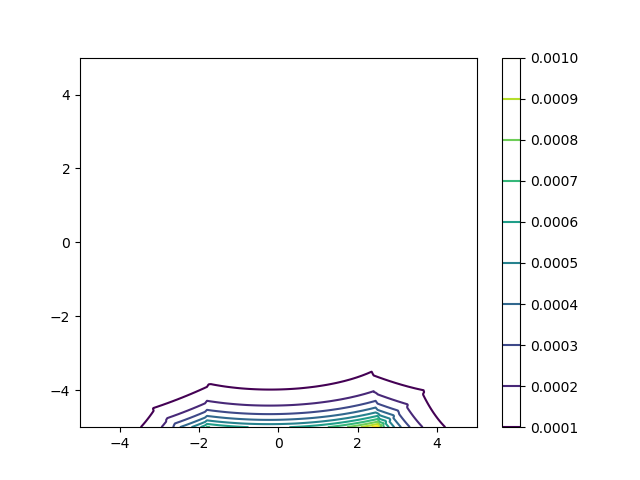
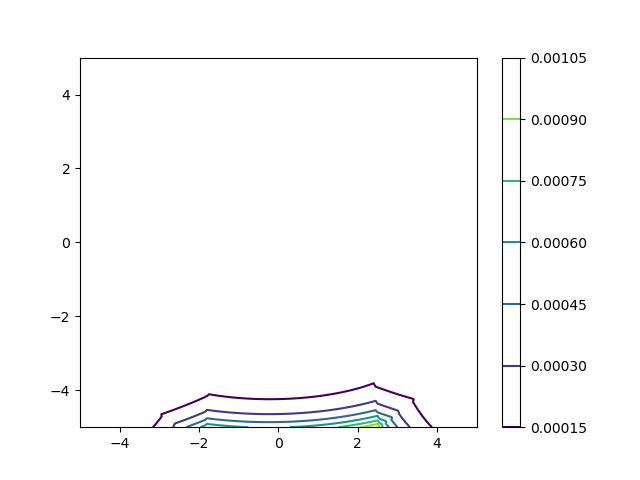
corrected contour lines

diff --git a/ass4/work/skeleton_HW4.py b/ass4/work/skeleton_HW4.py
@@ -58,7 +58,7 @@ def main():
         # TODO
         nml = position_estimation_numerical_ml(data, nr_anchors, p_anchor, params, p_true)
 
-        plt.contour(np.linspace(-5, 5, 201), np.linspace(-5, 5, 201), nml, 10)
+        plt.contour(np.linspace(-5, 5, 201), np.linspace(-5, 5, 201), nml)
         plt.colorbar()
         plt.show()
     
